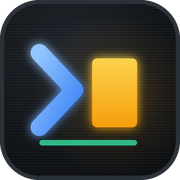
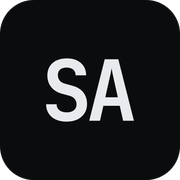
style: replace the site mark with an SA monogram
"SA" in JetBrains Mono Bold, outlined, light on the dark background.
logo.svg stays the single source; logo.png, apple-touch-icon.png and
favicon.ico are re-rendered from it. The Silk Reeling Mirror keeps its
own icon.

diff --git a/website/assets/images/brand/README.md b/website/assets/images/brand/README.md
@@ -1,10 +1,8 @@
 # Site mark
 
-`logo.svg` is the source. It reduces the header's `> Sam Aydlette` to its two
-parts, in the header's own colours: the blue prompt and an amber block cursor,
-on the dark theme's terminal background. A green baseline sits under them, the
-signed evidence the prompt stands on. In the SVG the cursor blinks, unless the
-viewer has asked for reduced motion.
+`logo.svg` is the source: "SA" in JetBrains Mono Bold, the site's monospace
+face, in light text on the dark theme's background. The letters are outlines,
+not text, so the mark renders the same without the font.
 
 The raster copies are rendered from it, never edited by hand:
 
@@ -12,7 +10,9 @@ The raster copies are rendered from it, never edited by hand:
 - `apple-touch-icon.png` (180 px).
 - `/favicon.ico` (16, 32, 48 and 64 px), at the site root, where browsers ask for it.
 
-To re-render after changing the SVG: wrap it in a page that sizes an `<img>` to
-the viewport, screenshot that page with headless Chromium at 512x512
-(`--default-background-color=00000000 --force-prefers-reduced-motion`, so the
-cursor is caught lit), then resize it with Pillow (LANCZOS) for the other sizes.
+To change the letters, instance the variable font at weight 700 with fontTools
+(`varLib.instancer`), draw the glyphs with `SVGPathPen` and centre their ink box
+in the tile. To re-render the rasters, wrap the SVG in a page that sizes an
+`<img>` to the viewport, screenshot that page with headless Chromium at 512x512
+(`--default-background-color=00000000`), then resize it with Pillow (LANCZOS)
+for the other sizes.
